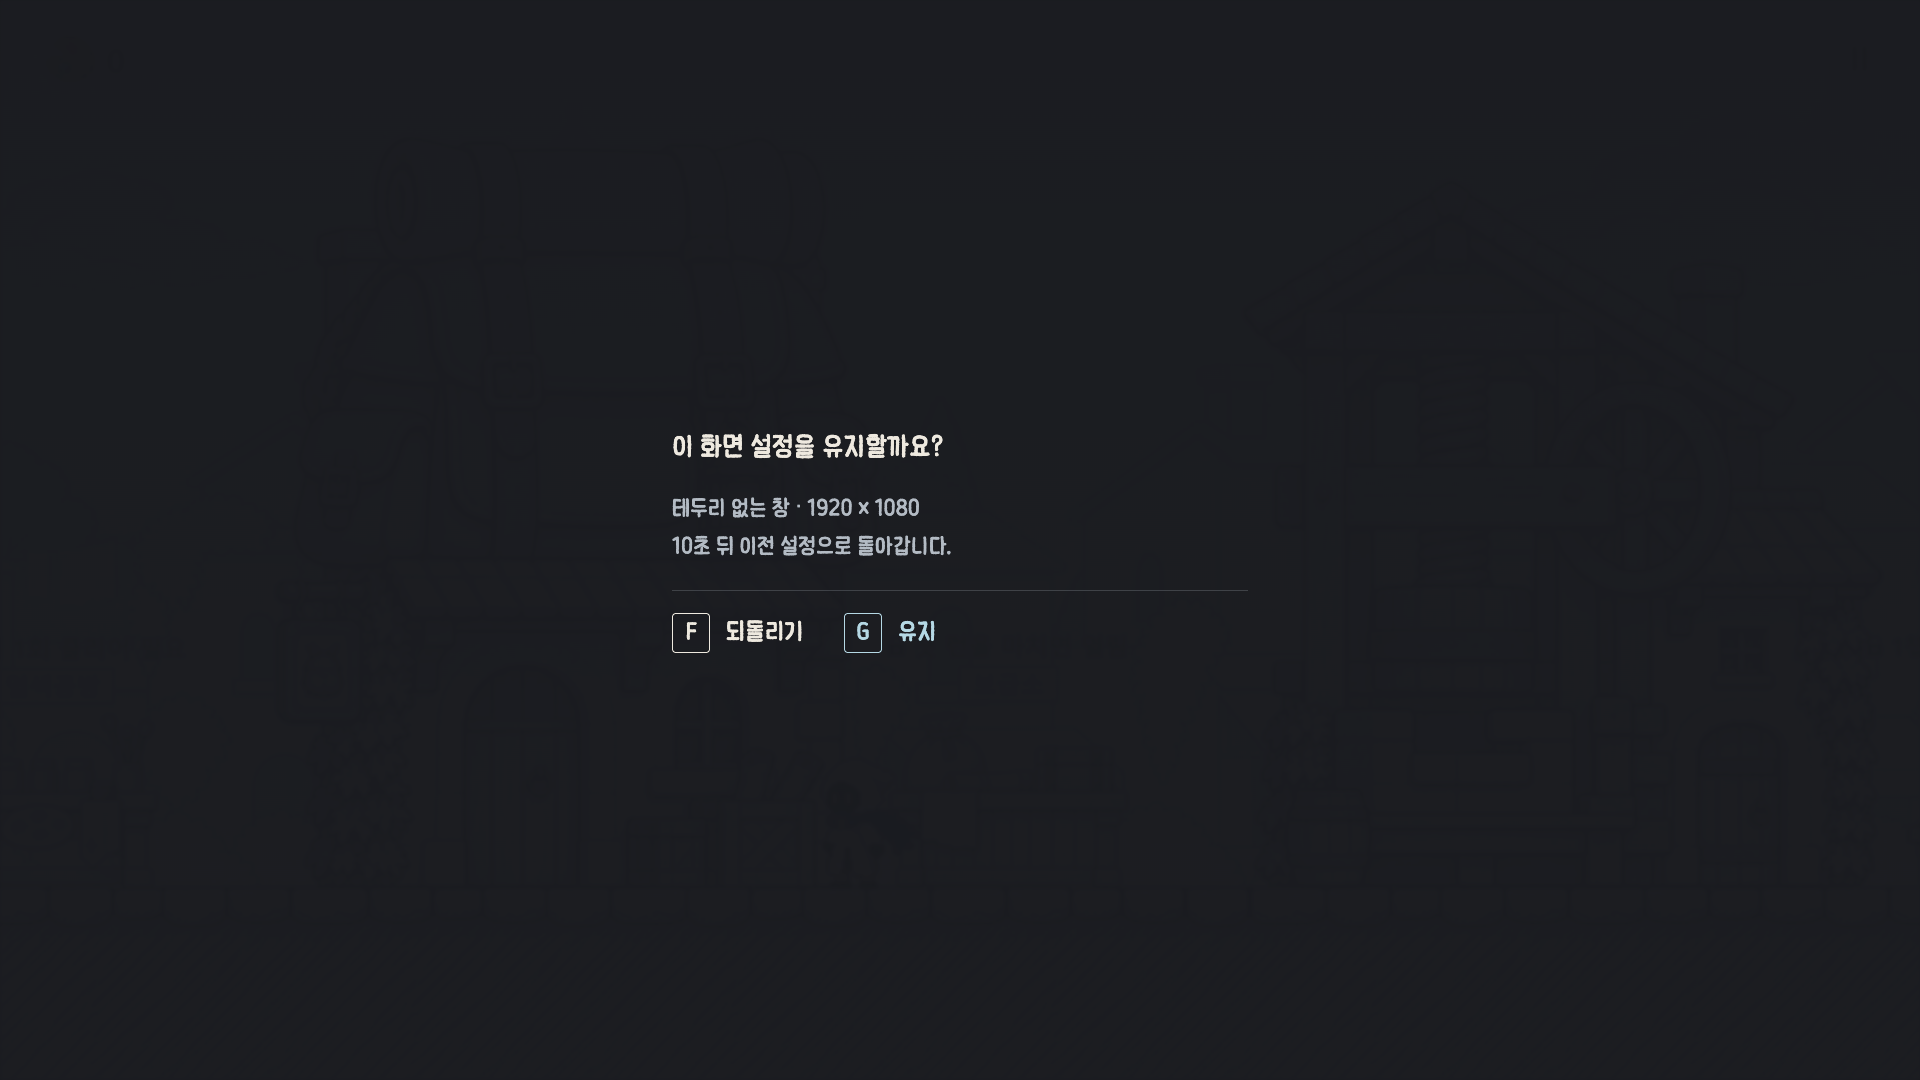
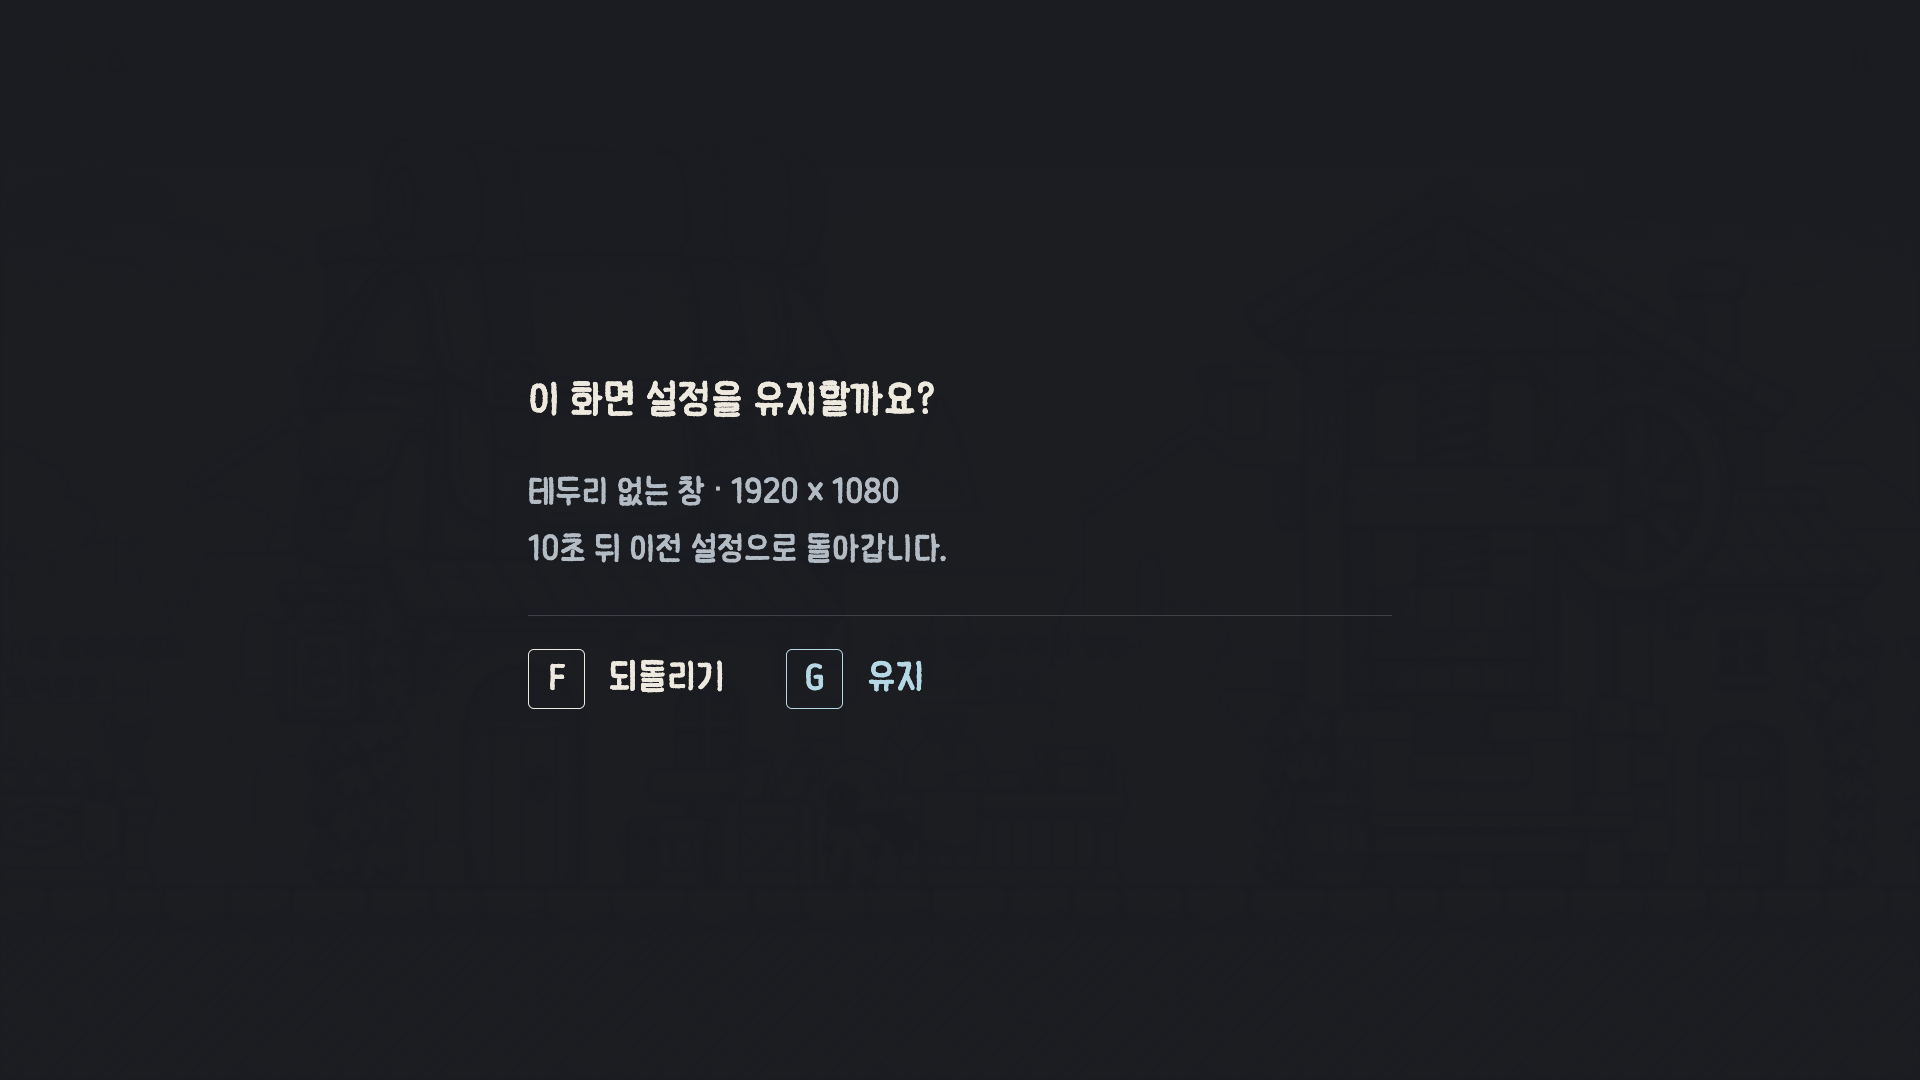
Scale settings confirmations to 150 percent

Changed region(s): [[0.2812, 0.3361, 0.5, 0.5194], [0.375, 0.55, 0.5, 0.6417], [0.2812, 0.6111, 0.375, 0.6417]]

diff --git a/ui/work/theme/ink-pixel-v1/settings-v1/style.css b/ui/work/theme/ink-pixel-v1/settings-v1/style.css
@@ -36,3 +36,10 @@ body[data-depth="nav"] nav button.navFocused{transform:scale(1.15);color:var(--p
 body[data-depth="nav"] nav button.navFocused:before{content:'';position:absolute;inset:-10px -24px;background:url('../maintenance-palette-v1/assets/selection-wash-v1.png') center/100% 100% no-repeat;z-index:-1;opacity:.65;pointer-events:none}
 /* Hide the whole underlying layer, including keycaps with forced visibility. */
 .screen:has(dialog[open]) main,.screen:has(dialog[open]) footer{opacity:0!important;pointer-events:none}
+/* Review adjustment: 1.5× the compact confirmation, with viewport scaling retained. */
+dialog{width:960px;padding:45px 48px}
+dialog h2{font-size:42px;margin-bottom:33px}
+dialog p{font-size:34.5px}
+.dialogActions{gap:60px;margin-top:36px;padding-top:33px}
+.dialogActions button{font-size:37.5px}
+#dialog button .actionKeycap{min-width:57px;height:60px;padding:4.5px 13.5px!important;margin-right:24px!important;font-size:36px!important;border-radius:6px}
